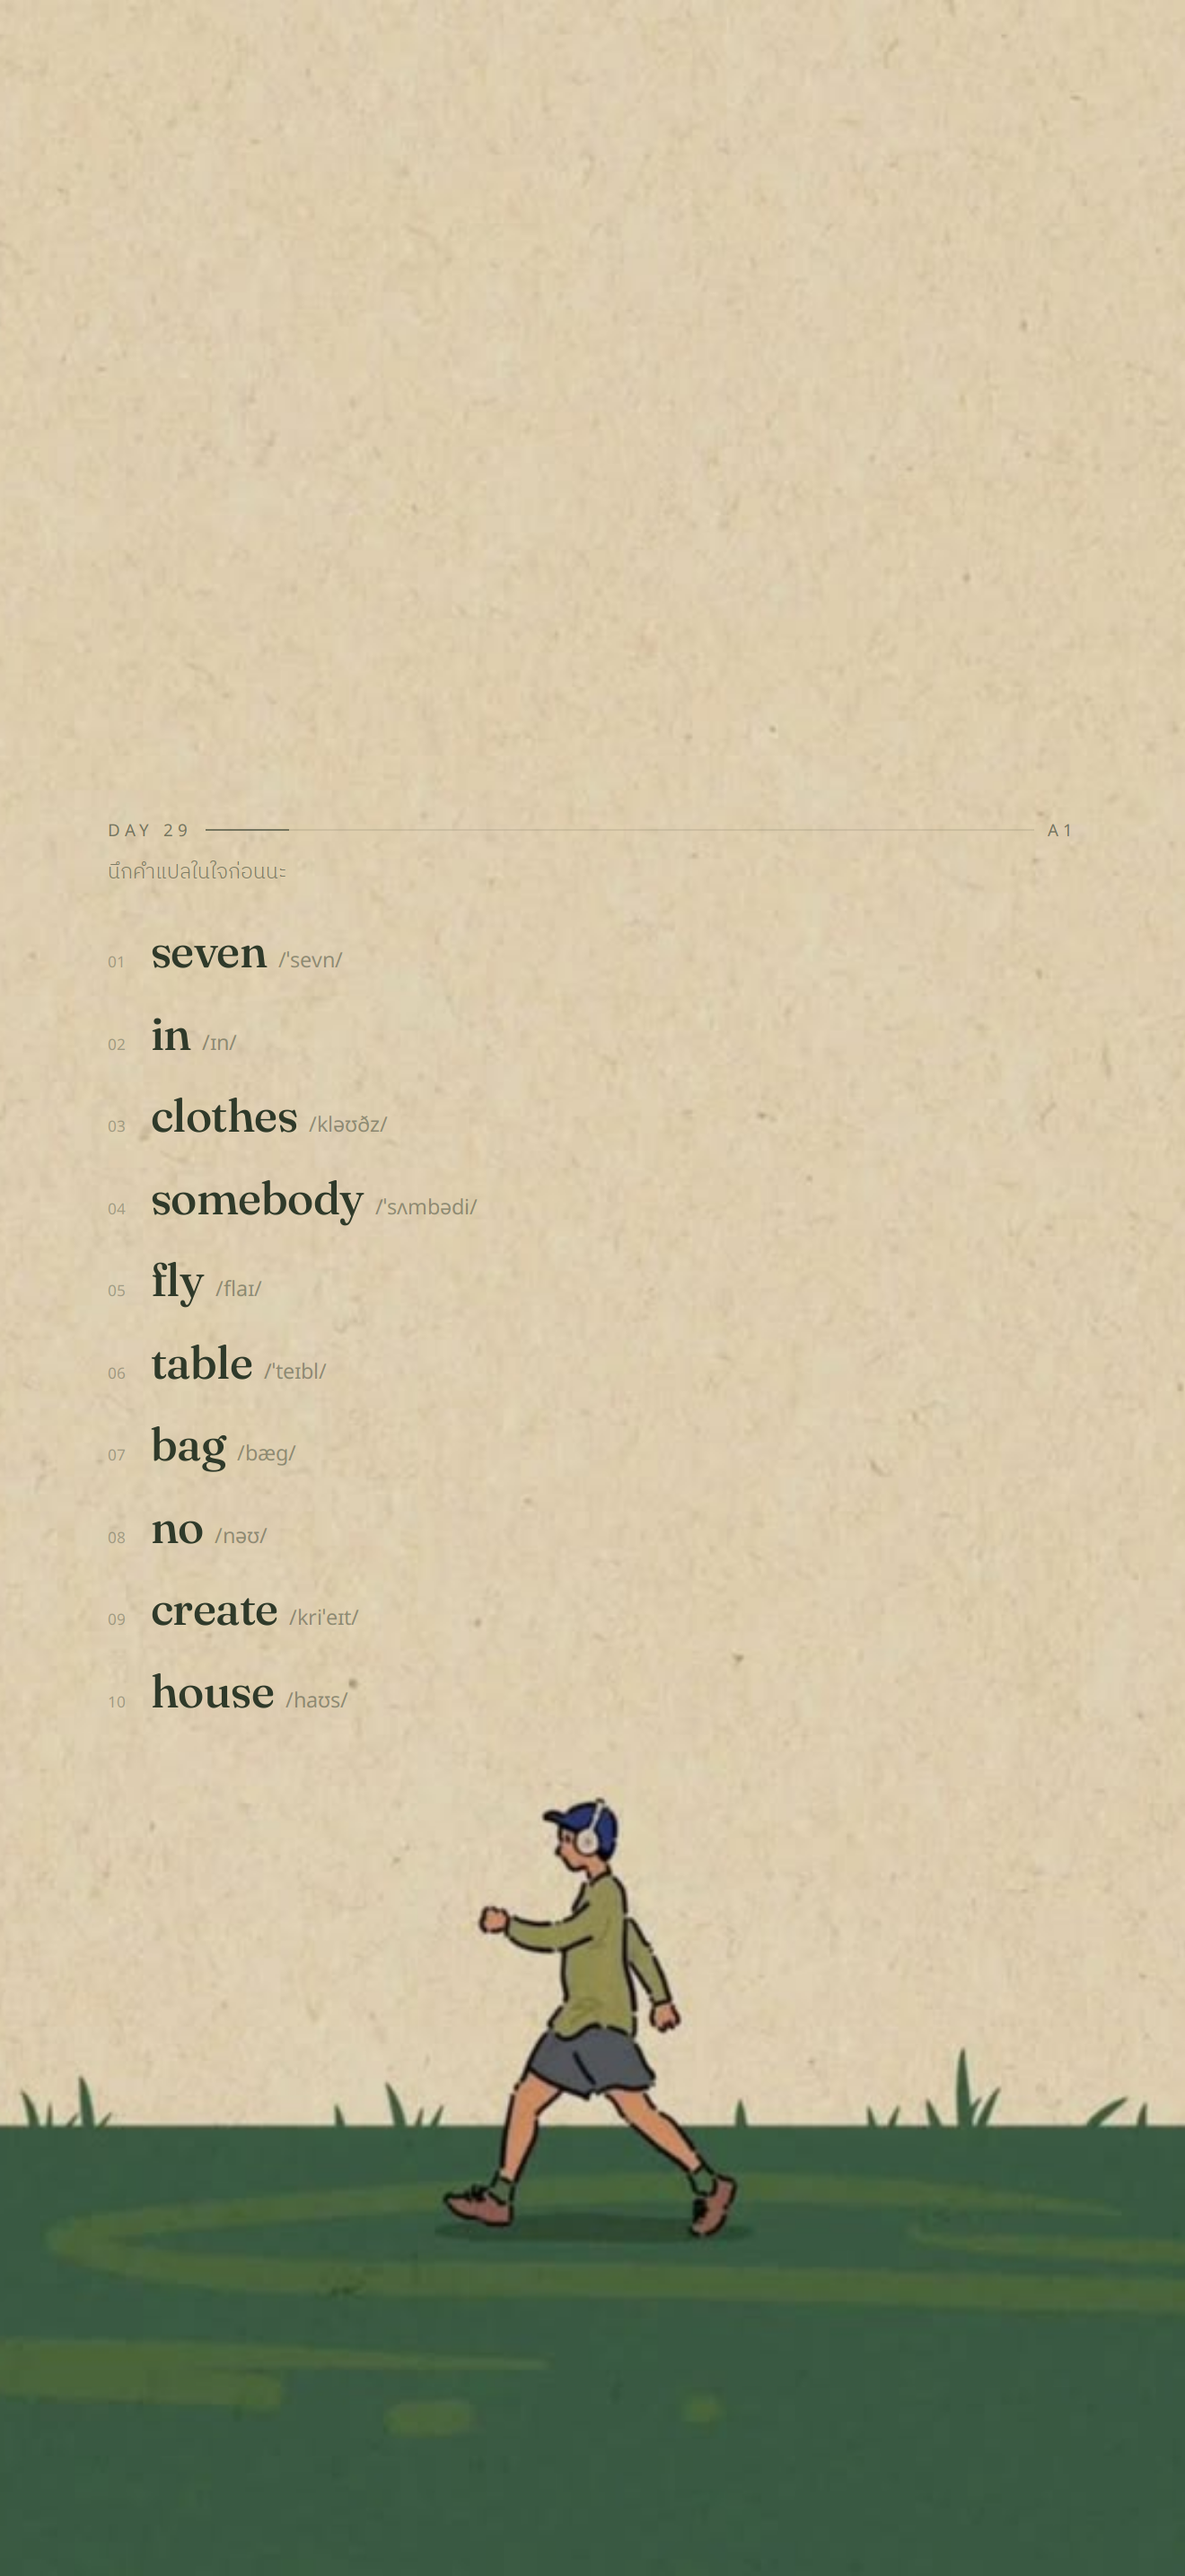
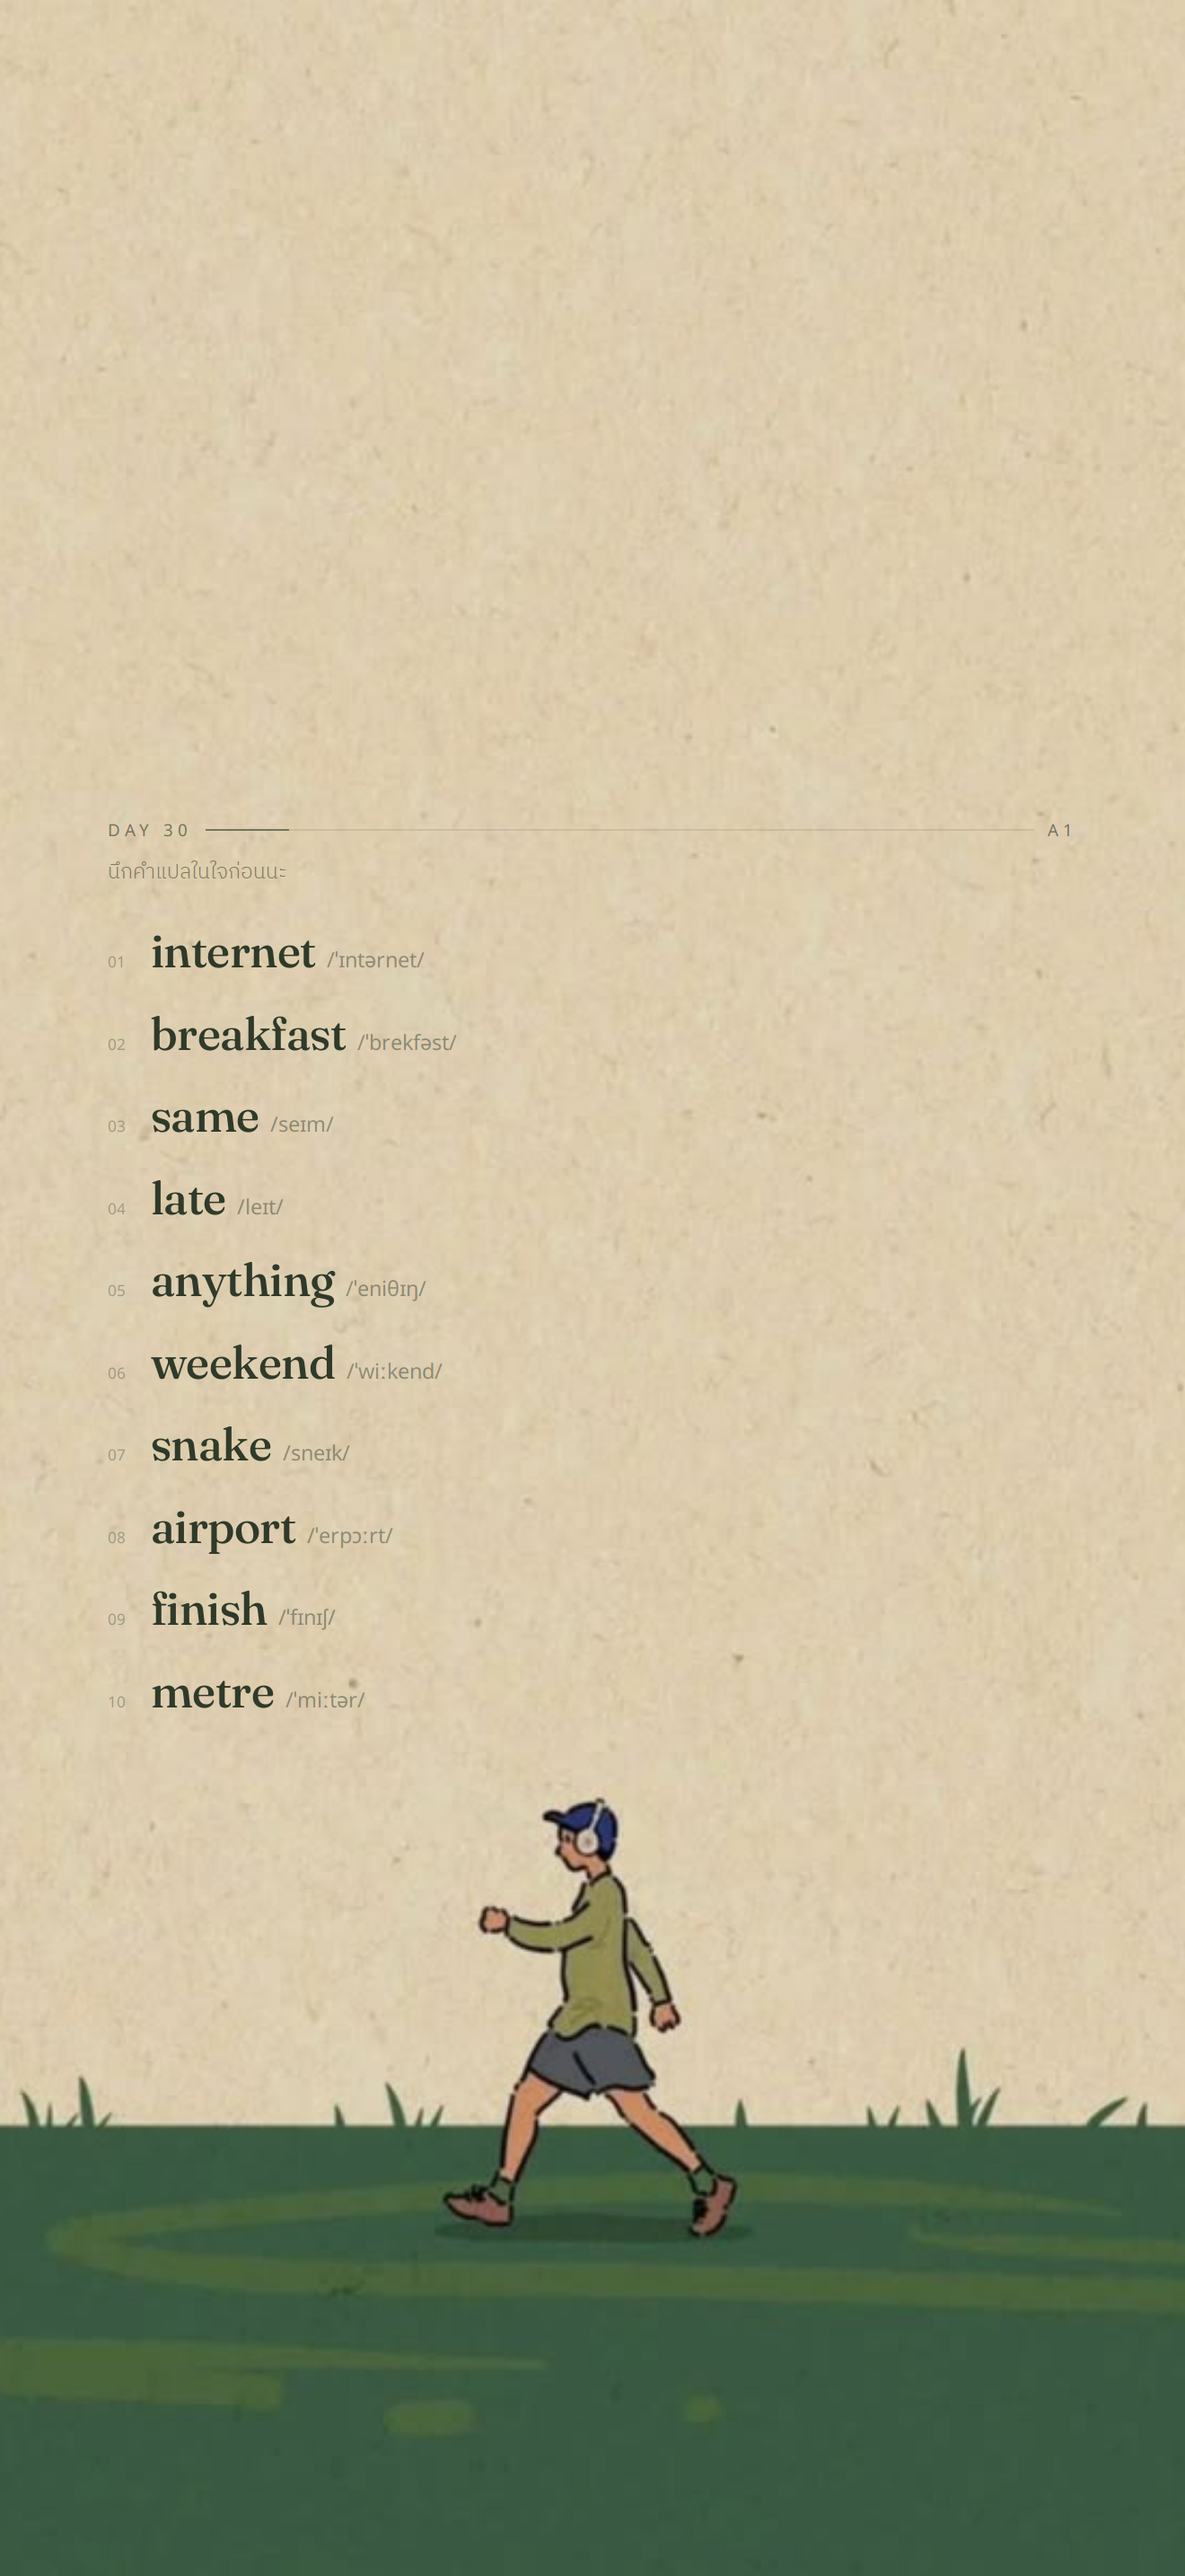
wallpaper: Day 30/298

Changed region(s): [[0.1242, 0.3414, 0.3106, 0.6827]]

diff --git a/docs/index.html b/docs/index.html
@@ -1,5 +1,5 @@
 <!DOCTYPE html><html lang="th"><head><meta charset="utf-8">
-<meta name="viewport" content="width=device-width,initial-scale=1"><title>Day 29 vocab wallpaper</title>
+<meta name="viewport" content="width=device-width,initial-scale=1"><title>Day 30 vocab wallpaper</title>
 <style>body{font-family:system-ui;background:#111;color:#eee;text-align:center;margin:24px}img{width:min(45vw,330px);border-radius:28px;margin:8px}</style></head>
-<body><h1>Day 29 / 298</h1><p>อัปเดต 2026-11-25T03:35:07.604Z</p>
-<a href="today.png"><img src="today.png?v=29" alt="today"></a><a href="quiz.png"><img src="quiz.png?v=29" alt="quiz"></a></body></html>
+<body><h1>Day 30 / 298</h1><p>อัปเดต 2026-11-26T01:00:09.306Z</p>
+<a href="today.png"><img src="today.png?v=30" alt="today"></a><a href="quiz.png"><img src="quiz.png?v=30" alt="quiz"></a></body></html>
